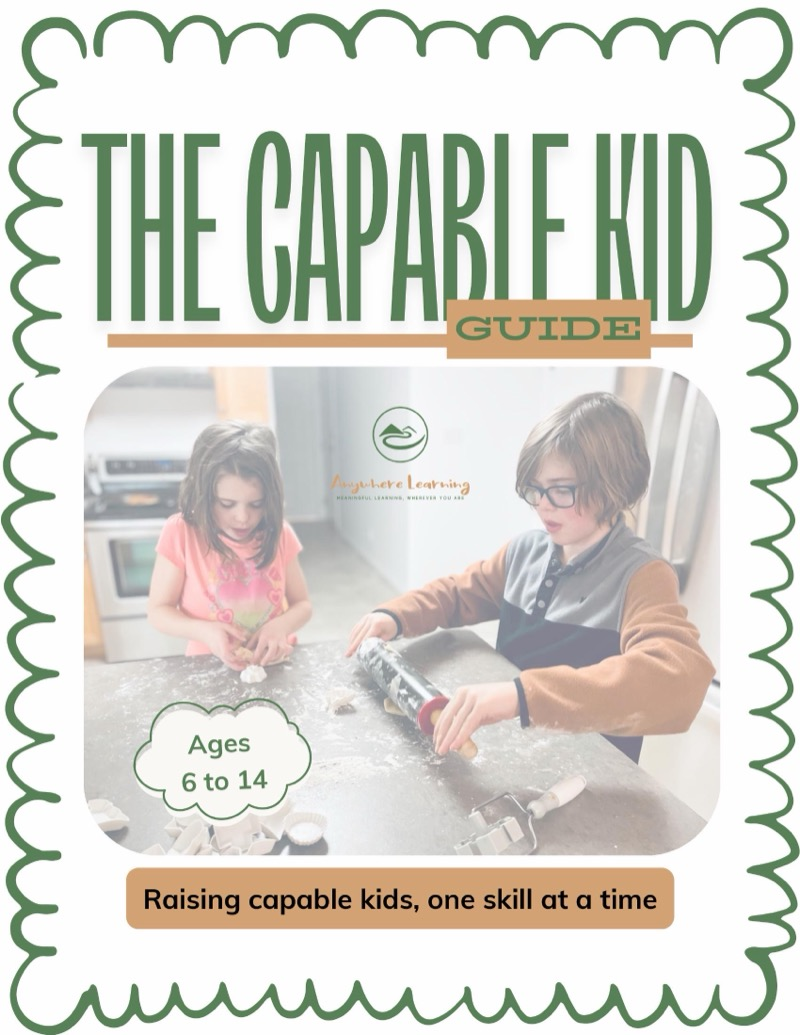
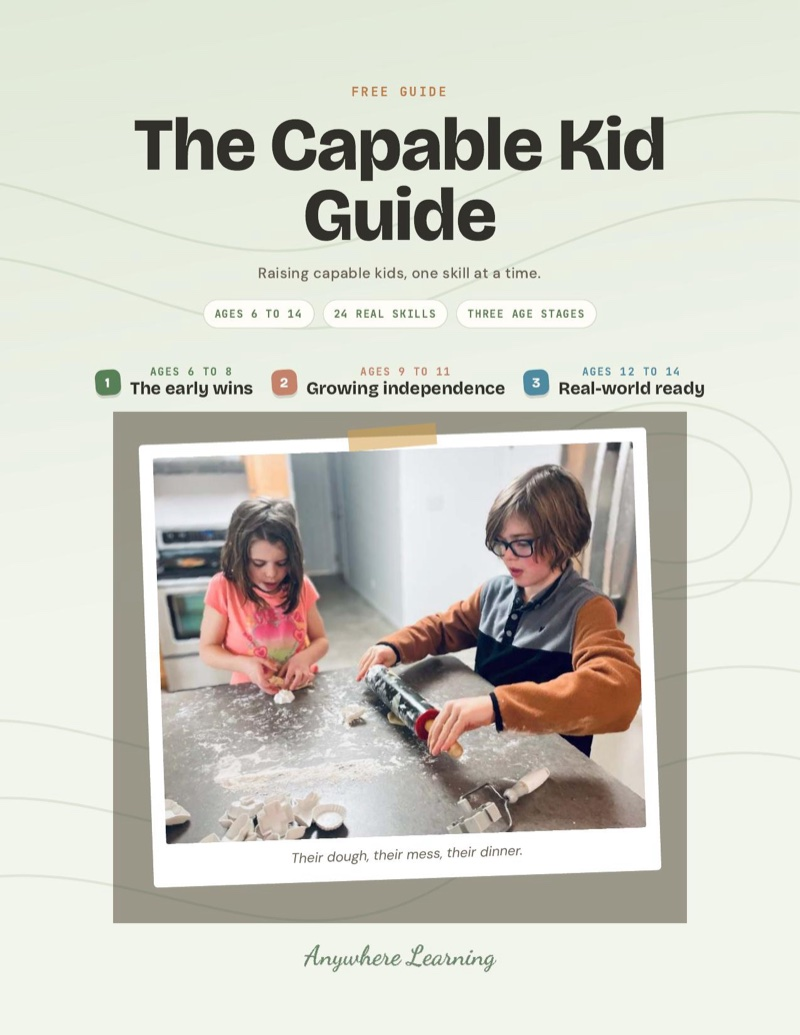
Capable Kid Guide rebuilt in the library design: rendered from guides/free/capable-kid.json (new capable layout), 13 skills link to the guide that builds them, catch-up note for older kids, no price in the PDF, school-smart contrast and out-the-door framing removed; same Blob link overwritten, new c

diff --git a/app/(store)/guides/capable-kid/page.tsx b/app/(store)/guides/capable-kid/page.tsx
@@ -57,7 +57,7 @@ const guideLd = {
   },
 };
 
-// The skills as listed in the guide itself (pages 4 to 6), eight per band.
+// The skills as listed in the guide itself (pages 5 to 7), eight per band.
 const AGE_BANDS = [
   {
     band: '6 to 8',
@@ -109,7 +109,7 @@ const AGE_BANDS = [
   },
 ];
 
-// The four stages from "The method that actually works" (page 2), in the guide's words.
+// The four stages from "Hand it over in four stages" (page 3), in the guide's words.
 const STAGES = [
   ['Watch me', 'You do the whole thing while they observe and you narrate.'],
   ['Help me', 'They do part, you do the rest. Hand over the easy, safe pieces first.'],
